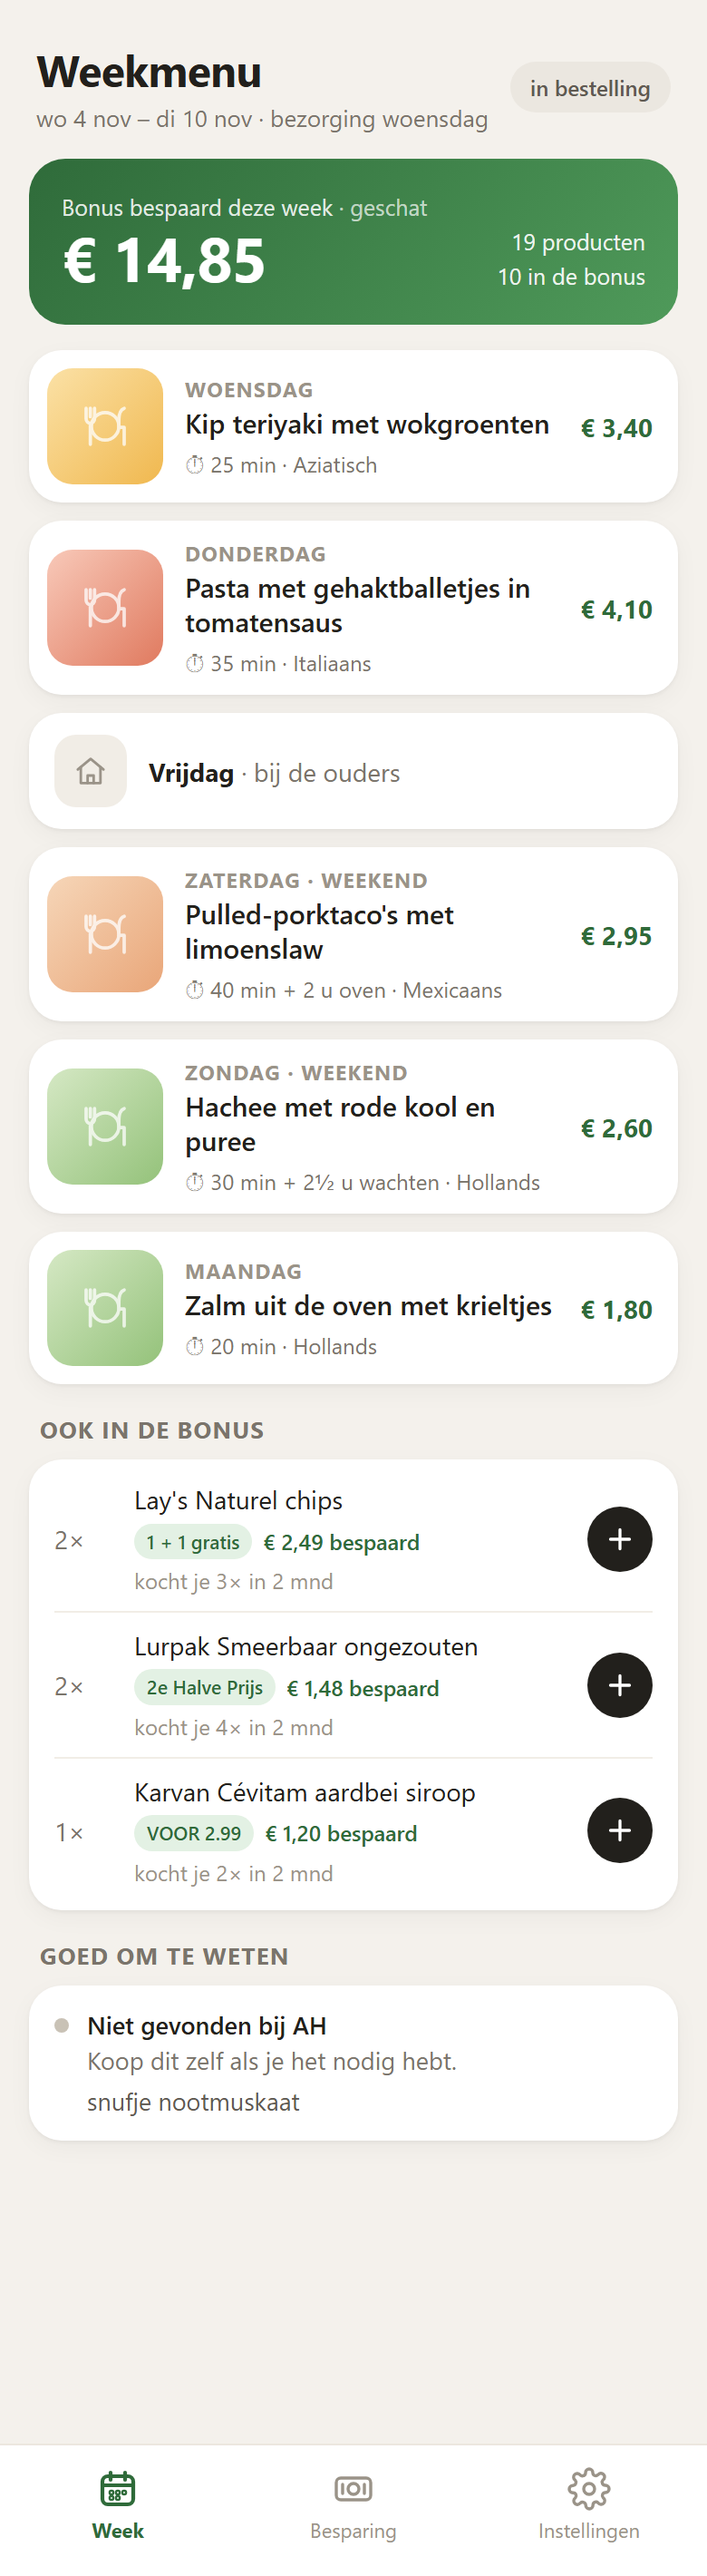
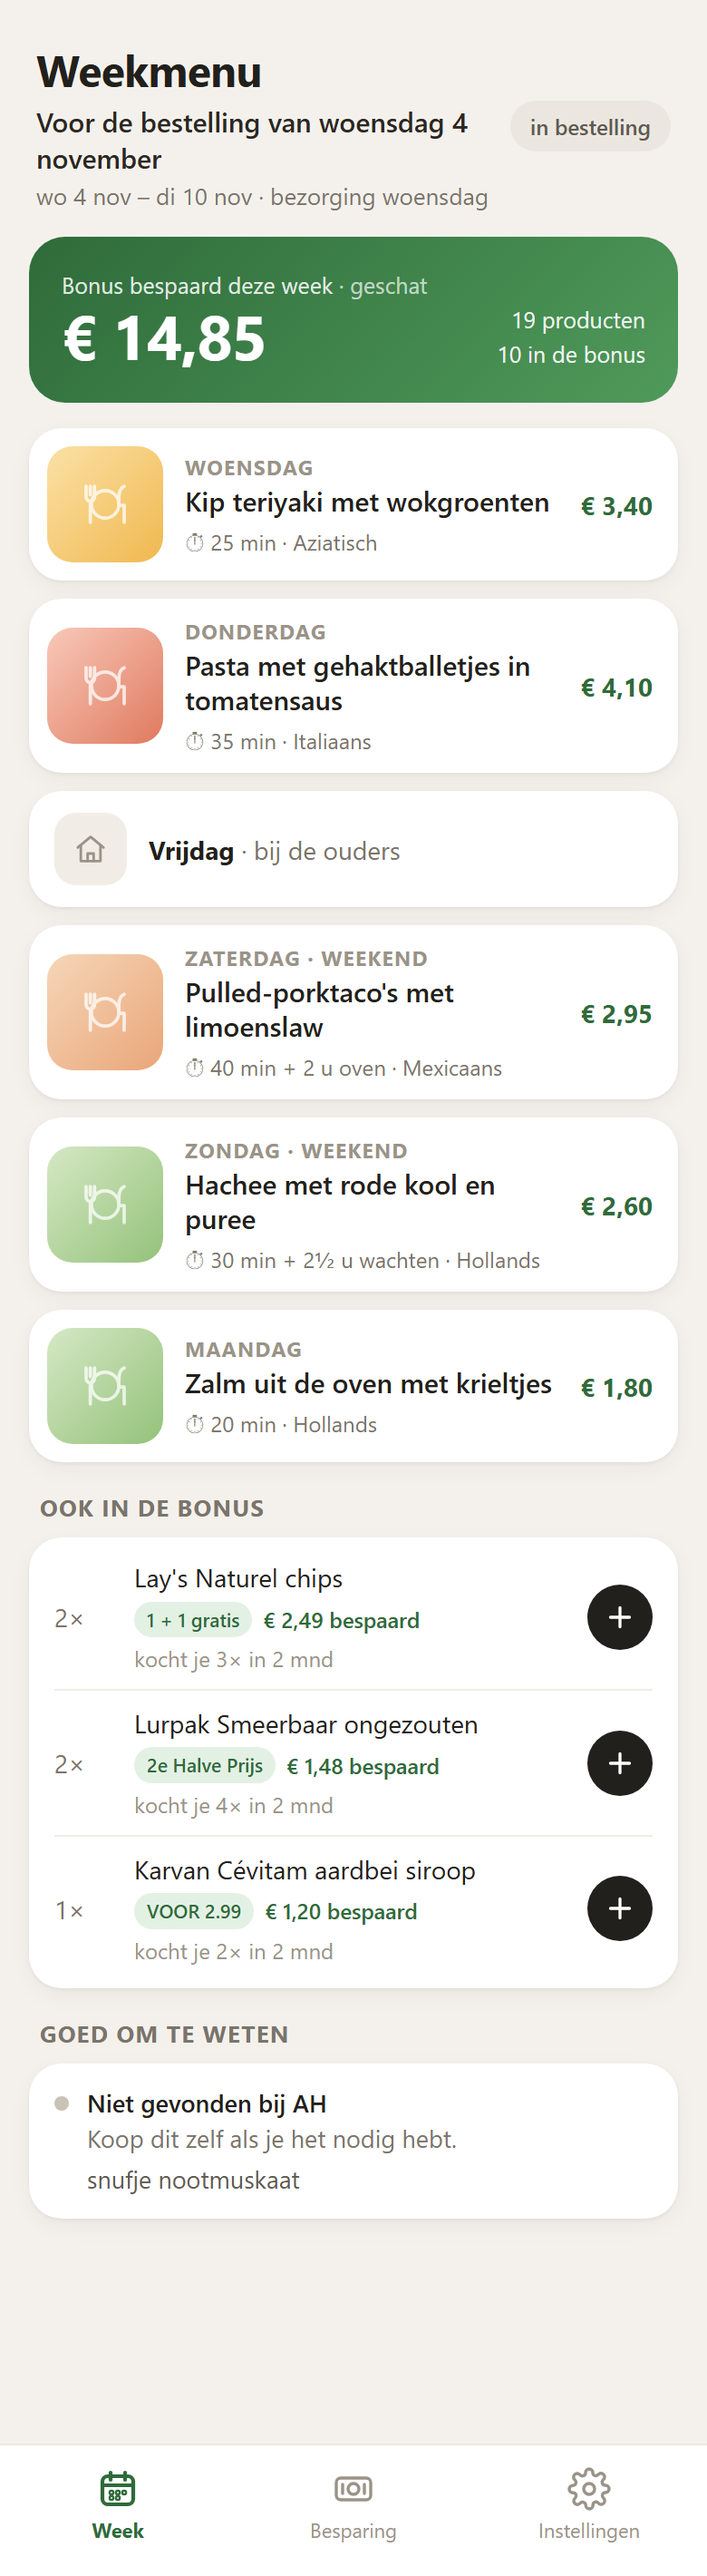
feat: app toont voor welke bestelling het menu is, en de wachtstand tot de folder er is

diff --git a/weekmenu/app/static/app.js b/weekmenu/app/static/app.js
@@ -47,6 +47,18 @@ function todayIso() {
   return `${t.getFullYear()}-${String(t.getMonth() + 1).padStart(2, "0")}-${String(t.getDate()).padStart(2, "0")}`;
 }
 
+/* "woensdag 11 november", like the push message and sensor.weekmenu. */
+function longDate(iso) {
+  const dt = parseDate(iso);
+  const dag = ["zondag", "maandag", "dinsdag", "woensdag", "donderdag", "vrijdag", "zaterdag"][dt.getDay()];
+  return `${dag} ${dt.getDate()} ${MAANDEN[dt.getMonth()]}`;
+}
+
+function folderText(expected) {
+  return "De folder van volgende week is er nog niet" +
+    (expected ? `, verwacht vanaf ${longDate(expected)}` : "");
+}
+
 function shortDate(dt) {
   const dag = ["zo", "ma", "di", "wo", "do", "vr", "za"][dt.getDay()];
   return `${dag} ${dt.getDate()} ${MAANDEN[dt.getMonth()].slice(0, 3)}`;
@@ -228,7 +240,9 @@ function pollRound() {
     state.polling = false;
     state.dishes = {};
     try { await loadWeek(); } catch (e) { /* shown on the tab */ }
+    const waiting = state.status && state.status.waiting_for_folder;
     if (state.status && state.status.error) toast(state.status.error, true);
+    else if (waiting) toast(folderText(waiting.expected));
     else toast("Het menu is bijgewerkt");
     render();
   };
@@ -320,7 +334,13 @@ function weekScreen() {
   const start = parseDate(w.week);
   const end = new Date(start); end.setDate(end.getDate() + 6);
   const where = w.target === "order" ? "in bestelling" : w.target === "list" ? "op de lijst" : "";
+  const waiting = w.waiting_for_folder;
+  const order = waiting
+    ? `Volgende bestelling: ${longDate(w.week)} \u2014 ` +
+      (waiting.expected ? `de folder komt vanaf ${longDate(waiting.expected)}` : "de folder is er nog niet")
+    : w.bestelling;
   let html = `<header class="top"><div><h1>Weekmenu</h1>
+    ${order ? `<div class="order">${esc(order)}</div>` : ""}
     <div class="sub">${shortDate(start)} – ${shortDate(end)}${w.target === "order" ? " · bezorging woensdag" : ""}</div></div>
     ${where ? `<span class="pill grey">${where}</span>` : ""}</header>`;
 
@@ -328,9 +348,12 @@ function weekScreen() {
     html += `<div class="card note"><span class="spin dark"></span><div><b>Er wordt een menu gemaakt</b>
       <span class="muted">Dit duurt meestal een minuut.</span></div></div>`;
   }
-  if (!w.days.length) {
+  if (!w.days.length && waiting) {
+    html += `<div class="card empty"><b>${esc(folderText(waiting.expected))}</b>
+      Het menu wordt vanzelf gemaakt zodra de folder uit is, en je krijgt dan een melding.</div>`;
+  } else if (!w.days.length) {
     html += `<div class="card empty"><b>Nog geen menu voor deze week</b>
-      Het menu wordt zondagochtend vanzelf gemaakt. Wil je niet wachten, tik dan op Nu maken.</div>
+      Het menu wordt vanzelf gemaakt zodra de folder van die week uit is, meestal op vrijdag. Wil je niet wachten, tik dan op Nu maken.</div>
       <button class="btn pri full" data-run="nu_maken">Nu maken</button>`;
   } else {
     const extras = Number(w.extras_savings) || 0;
@@ -448,7 +471,7 @@ function settingsScreen() {
     <div class="sub">dezelfde instellingen als in Home Assistant</div></div></header>
     ${note}
     <div class="card set">
-      <div class="srow">Elke zondag een menu maken
+      <div class="srow">Elke week vanzelf een menu maken
         <button class="toggle ${s.enabled ? "on" : "off"}" data-toggle>${s.enabled ? "● aan" : "○ uit"}</button></div>
       <div class="srow">Kookavonden <div class="stp">
         <button data-avonden="${s.avonden - 1}" aria-label="Minder kookavonden" ${s.avonden <= 1 ? "disabled" : ""}>−</button>

diff --git a/weekmenu/app/static/app.css b/weekmenu/app/static/app.css
@@ -13,6 +13,7 @@ a{color:inherit}
 .top{padding:22px 20px 14px;display:flex;justify-content:space-between;align-items:center;gap:12px}
 .top h1{font-size:24px;font-weight:700;letter-spacing:-.3px}
 .top .sub{font-size:13px;color:#7a746b;margin-top:2px}
+.top .order{font-size:15px;font-weight:600;color:#2b2722;margin-top:3px}
 .pill{display:inline-flex;align-items:center;gap:6px;padding:6px 11px;border-radius:999px;font-size:12px;font-weight:600;white-space:nowrap}
 .green{background:#e3f1e4;color:#2f6b3a}.grey{background:#ebe7e0;color:#5f5a52}
 .warn{background:#fbecd9;color:#8a5a14}

diff --git a/weekmenu/tests/test_frontend.py b/weekmenu/tests/test_frontend.py
@@ -16,7 +16,7 @@ import pytest
 from aiohttp import web
 
 from app.ahclient import Product, Recipe
-from app.main import PERIOD_WARNING
+from app.main import PERIOD_WARNING, Waiting
 from app.hass import HELPER_OUDERS, _save_total, helper_persons
 from app.ledger import WeekLog
 from app.planner import Dish, Line, Plan
@@ -233,6 +233,9 @@ def test_app_screens_in_chrome(tmp_path):
     shutil.copytree(STATIC_DIR, static)
     with Server(ctx, static) as base:
         dom = render(base, "", tmp_path, "week", size=PHONE_LONG)
+        # the order line, right under the title and above the savings
+        order = "Voor de bestelling van woensdag 4 november"
+        assert dom.index("<h1>Weekmenu</h1>") < dom.index(order) < dom.index("Bonus bespaard")
         for title in TITLES:
             assert title.replace("'", "&#39;") in dom or title in dom, title
         assert "bij de ouders" in dom
@@ -302,3 +305,19 @@ def test_app_screens_in_chrome(tmp_path):
         ctx.login_expired = True
         dom = render(base, "", tmp_path, "login")
         assert "appie://login-exit" in dom and "F12" in dom
+
+
+@pytest.mark.slow
+def test_app_waiting_for_folder_in_chrome(tmp_path):
+    """Thursday before the menu week of 11 November: no folder yet, no menu."""
+    ctx = make_ctx(tmp_path, now=datetime(2026, 11, 5, 10, 0))
+    ctx.store.save(Tokens("test-access", "test-refresh", 9e9))
+    ctx.waiting = Waiting(date(2026, 11, 11), date(2026, 11, 6))
+    static = tmp_path / "static"
+    shutil.copytree(STATIC_DIR, static)
+    with Server(ctx, static) as base:
+        dom = render(base, "", tmp_path, "week-wachten")
+    line = "Volgende bestelling: woensdag 11 november \u2014 de folder komt vanaf vrijdag 6 november"
+    assert dom.index("<h1>Weekmenu</h1>") < dom.index(line)
+    assert "De folder van volgende week is er nog niet" in dom
+    assert "Voor de bestelling van" not in dom

diff --git a/docs/screenshots/README.md b/docs/screenshots/README.md
@@ -22,7 +22,7 @@ Screenshots of the built Weekmenu app, made by `weekmenu/tests/test_frontend.py`
 | ![Savings](app-besparing.png) | ![Settings](app-instellingen.png) |
 | ![Login](app-login.png) | |
 
-1. Week: the savings of the week, then one card per evening, the parents' evening as a quiet card, and under the dishes "Ook in de bonus": staples bought often that are on offer, each with a plus button
+1. Week: under the title the order it is for ("Voor de bestelling van woensdag 4 november"), then the savings of the week, then one card per evening, the parents' evening as a quiet card, and under the dishes "Ook in de bonus": staples bought often that are on offer, each with a plus button
 2. One dish: persons, ingredients with the AH product and the bonus offer, preparation and swap
 3. Savings: this month, since the start, and per week
 4. Settings: the same helpers as in Home Assistant, plus Nieuw menu and Nu maken
